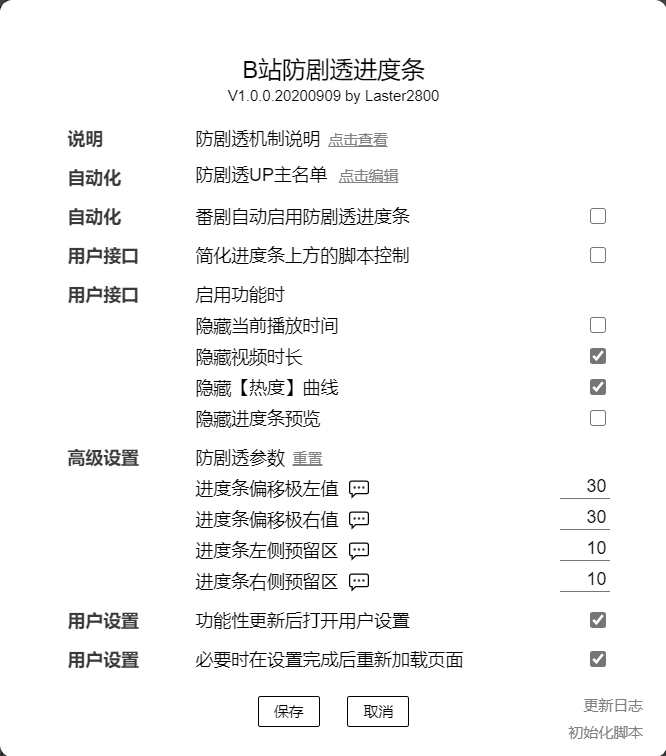
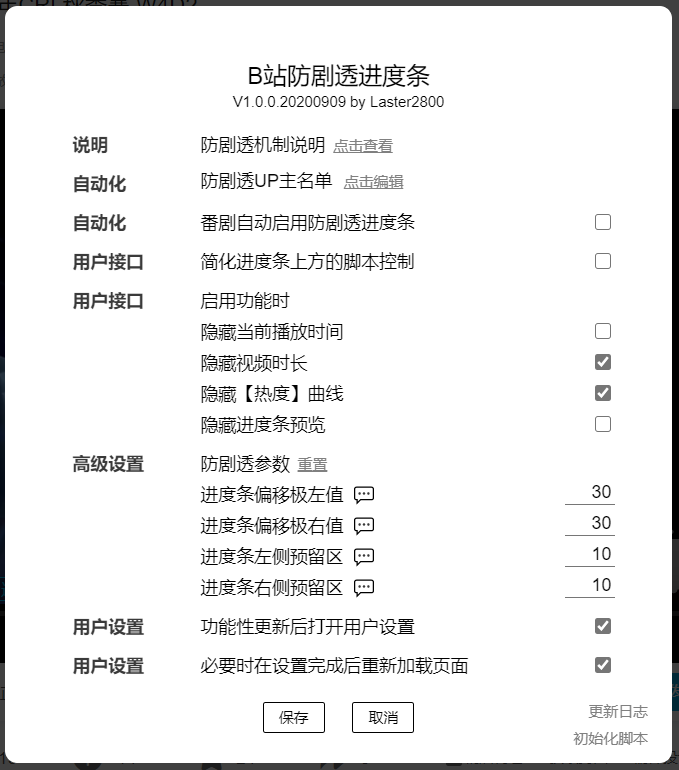
B站防剧透进度条：正式发布

diff --git a/BilibiliNoSpoilProgressBar/BilibiliNoSpoilProgressBar.js b/BilibiliNoSpoilProgressBar/BilibiliNoSpoilProgressBar.js
@@ -1,6 +1,6 @@
 // ==UserScript==
 // @name            B站防剧透进度条
-// @version         0.2.0.20200909
+// @version         1.0.0.20200909
 // @namespace       laster2800
 // @author          Laster2800
 // @description     看比赛、看番总是被进度条剧透？装上这个脚本再也不用担心这些问题了
@@ -414,7 +414,7 @@
                     <td>
                       <div>
                         <span>防剧透机制说明</span>
-                        <a class="gm-hint-option" title="查看脚本防剧透机制的实现原理。" href="${gm.url.gm_readme}" target="_blank">点击查看</a>
+                        <a class="gm-hint-option" title="查看脚本防剧透机制的实现原理。" href="${gm.url.gm_readme}" target="_blank" style="color:var(--hint-text-color)">点击查看</a>
                       </div>
                     </td>
                   </tr>

diff --git a/BilibiliNoSpoilProgressBar/README.md b/BilibiliNoSpoilProgressBar/README.md
@@ -32,8 +32,6 @@
 
 在设置窗口中已经提供了详细的说明，但前提是理解上面关于防剧透原理的说明。
 
-*gitee: [BilibiliNoSpoilProgressBar](https://gitee.com/liangjiancang/userscript/tree/master/BilibiliNoSpoilProgressBar)*
-
 ## 截图
 
 * 设置入口
@@ -45,5 +43,7 @@
     ![脚本控制-1](https://gitee.com/liangjiancang/userscript/raw/master/BilibiliNoSpoilProgressBar/screenshot/脚本控制-1.png)
 
     ![脚本控制-2](https://gitee.com/liangjiancang/userscript/raw/master/BilibiliNoSpoilProgressBar/screenshot/脚本控制-2.png)
+
+*gitee: [BilibiliNoSpoilProgressBar](https://gitee.com/liangjiancang/userscript/tree/master/BilibiliNoSpoilProgressBar)*
 
 *by Laster2800*
